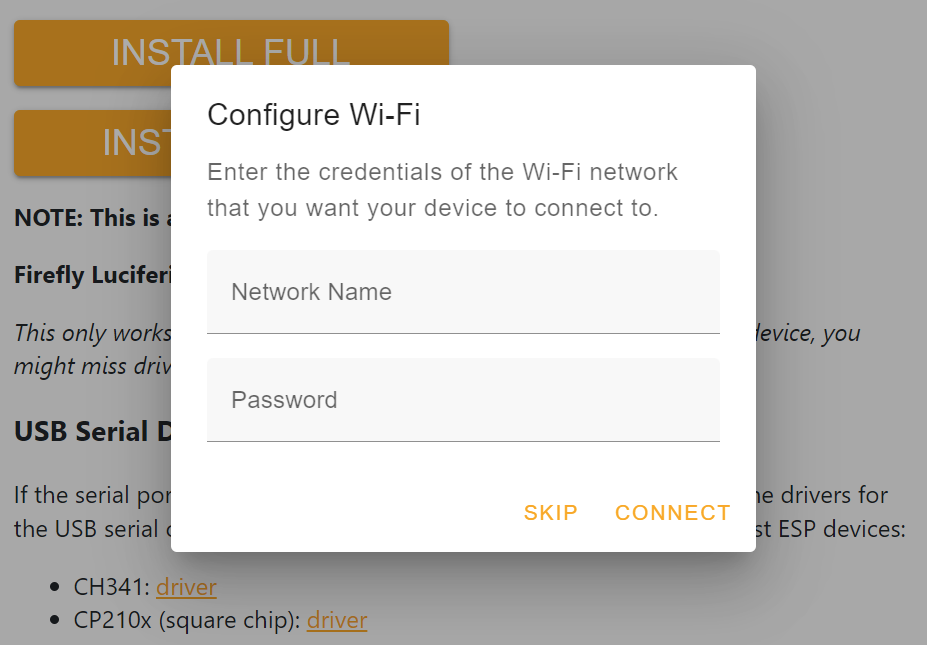
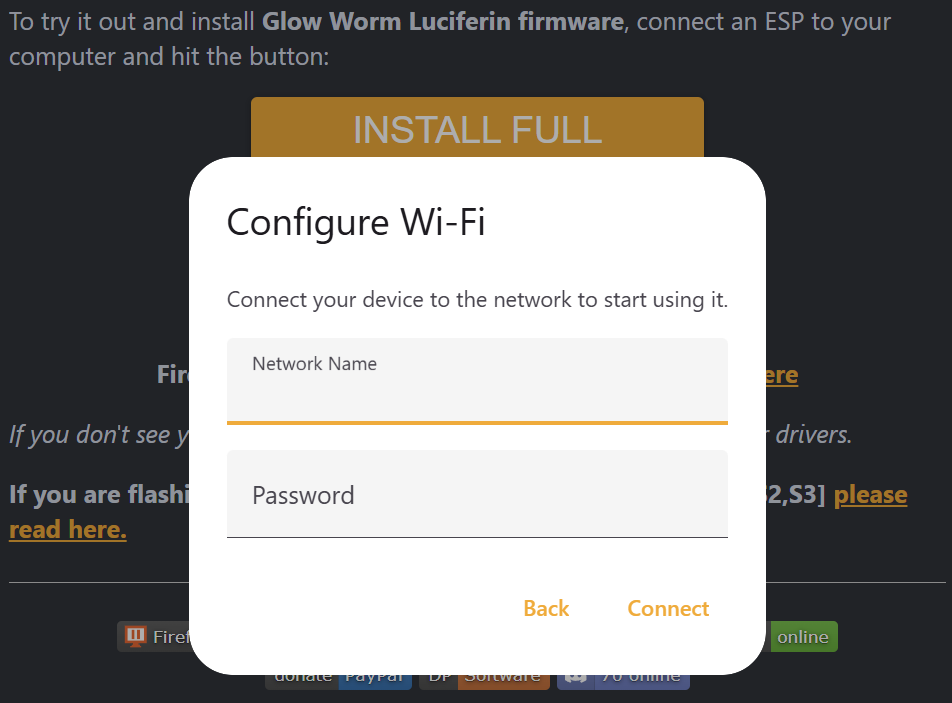
image / label update

diff --git a/README.md b/README.md
@@ -102,18 +102,18 @@ guide**](https://github.com/sblantipodi/toremove/wiki/Quick-start), or dive into
 Effortless setup with minimal configuration required, yet highly customizable to meet specific needs.
 
 <p align="center">
-  <img src="https://raw.githubusercontent.com/sblantipodi/firefly_luciferin/master/data/img/settings_1.png">
+  <img src="https://raw.githubusercontent.com/sblantipodi/firefly_luciferin/luciferin-v3/data/img/settings_1.png">
 </p>
 
 <p align="center">
-  <img src="https://raw.githubusercontent.com/sblantipodi/firefly_luciferin/master/data/img/settings_2.png">
+  <img src="https://raw.githubusercontent.com/sblantipodi/firefly_luciferin/luciferin-v3/data/img/settings_2.png">
 </p>
 
 <p align="center">
-  <img src="https://raw.githubusercontent.com/sblantipodi/firefly_luciferin/master/data/img/settings_3.png">
+  <img src="https://raw.githubusercontent.com/sblantipodi/firefly_luciferin/luciferin-v3/data/img/settings_3.png">
 </p>
 
-[<img width="900" src="https://github.com/sblantipodi/firefly_luciferin/blob/master/data/img/test_image_anim_color.gif?raw=true">](https://youtu.be/j7IV9rQr7J8)
+[<img width="900" src="https://github.com/sblantipodi/firefly_luciferin/blob/luciferin-v3/data/img/test_image_anim_color.gif?raw=true">](https://youtu.be/j7IV9rQr7J8)
 
 #### (click the image above to watch it on YouTube)
 
@@ -160,7 +160,9 @@ your phone.
 - **Firefly Luciferin**: besides the desktop app, it now offers its own web interface for full control from your phone
   or any browser.
 
-<img align="center" width="750" src="https://github.com/sblantipodi/glow_worm_luciferin/blob/master/assets/img/web_interface.jpg?raw=true">
+<img align="center" width="750" src="https://raw.githubusercontent.com/sblantipodi/firefly_luciferin/luciferin-v3/data/img/web_interface.jpg?raw=true">  
+<p></p>
+<img align="center" width="750" src="https://raw.githubusercontent.com/sblantipodi/firefly_luciferin/luciferin-v3/data/img/web_interface_ff.jpg?raw=true">
 
 ## Home Assistant integration
 
